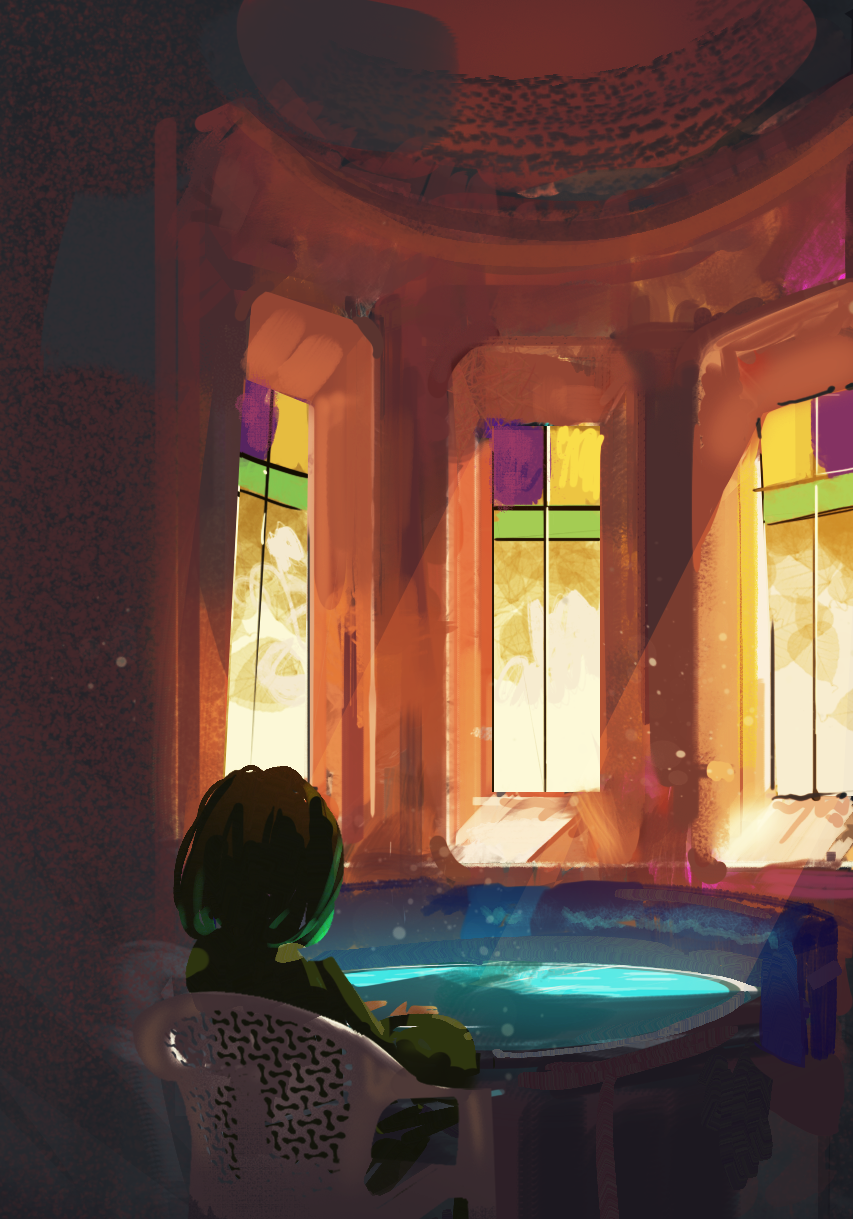
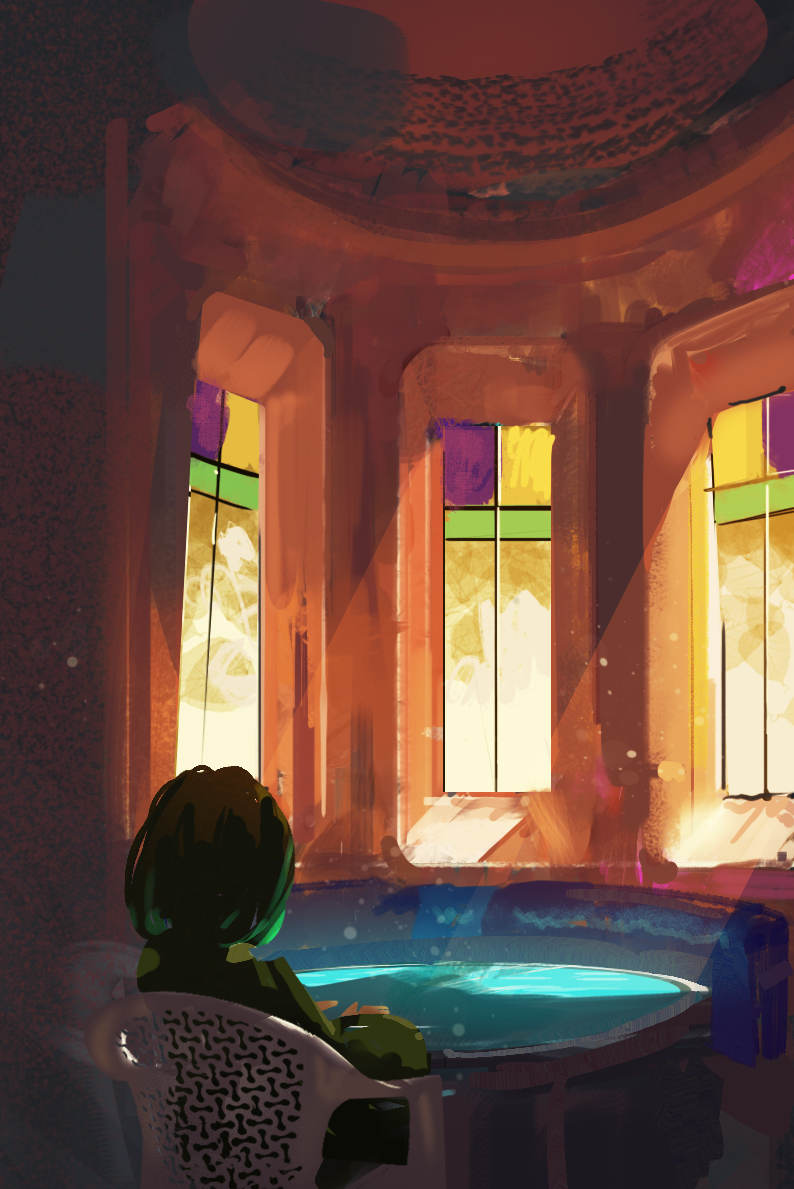
better images and upkeep
fixed about me text flex bug, removed thumbnails addon cus it was broken, updated images based on katies critique

diff --git a/src/art.tsx b/src/art.tsx
@@ -56,7 +56,7 @@ import koi  from './images/koi.png';
 
 
 const photos = [{src: bigHat , width:1582, height:772, alt: 'painting of bigHat'},
-{src: koi , width:853, height:1219, alt: 'painting of koi'},
+{src: koi , width:794, height:1189, alt: 'painting of koi'},
 
 {src: elliotUni_copy , width:768, height:431, alt: 'painting of elliotUni_copy'},
 
@@ -70,7 +70,7 @@ const photos = [{src: bigHat , width:1582, height:772, alt: 'painting of bigHat'
 {src: jurgen , width:853, height:600, alt: 'painting of jurgen'},
 {src: mechhand , width:366, height:512, alt: 'painting of mechhand'},
 {src: pearl , width:229, height:600, alt: 'painting of pearl'},
-{src: PhoneBad , width:1551, height:904, alt: 'painting of PhoneBad'},
+{src: PhoneBad , width:5834, height:2297, alt: 'painting of PhoneBad'},
 {src: rubySentry , width:775, height:913, alt: 'painting of rubySentry'},
 
 
@@ -133,7 +133,8 @@ export default function Gallery() {
       open={index >= 0}
       index={index}
       close={() => setIndex(-1)}
-      plugins={[Thumbnails]}/>
+      // plugins={[Thumbnails]}
+      />
     <Footer />
   </div>
 }

diff --git a/src/css/styles.css b/src/css/styles.css
@@ -22,7 +22,7 @@ padding: 0;
 
 #aboutMeContainer {
 display: flex;
-flex-direction: row;
+flex-direction: column;
 
 }
 
@@ -34,6 +34,11 @@ font-size: 50%;
 
 @media only screen and (min-width: 601px) {
 
+#aboutMeContainer {
+display: flex;
+flex-direction: row;
+
+}
 
 article {
 margin: 0 0.5em;

diff --git a/src/css/about_me.css b/src/css/about_me.css
@@ -29,9 +29,7 @@ border-style: solid;
 border-color: black;
 border-width: 0 0 0.5em 0;
 
-} 
-
-
+}
 
 
 @media only screen and (min-width: 601px) {
@@ -41,6 +39,7 @@ width: 80%;
 margin-left: 5%;
 
 }
+
 
 figure img {
 width: 20em;
